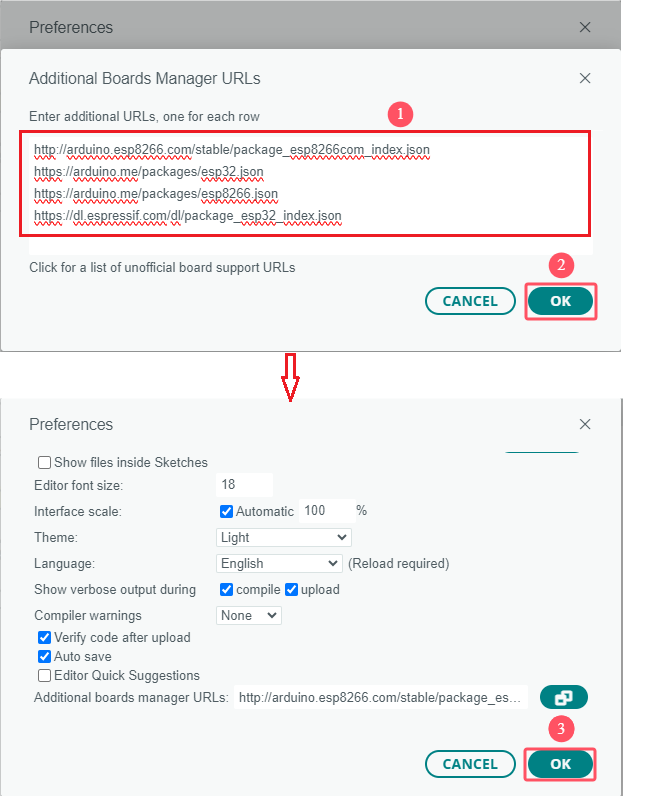
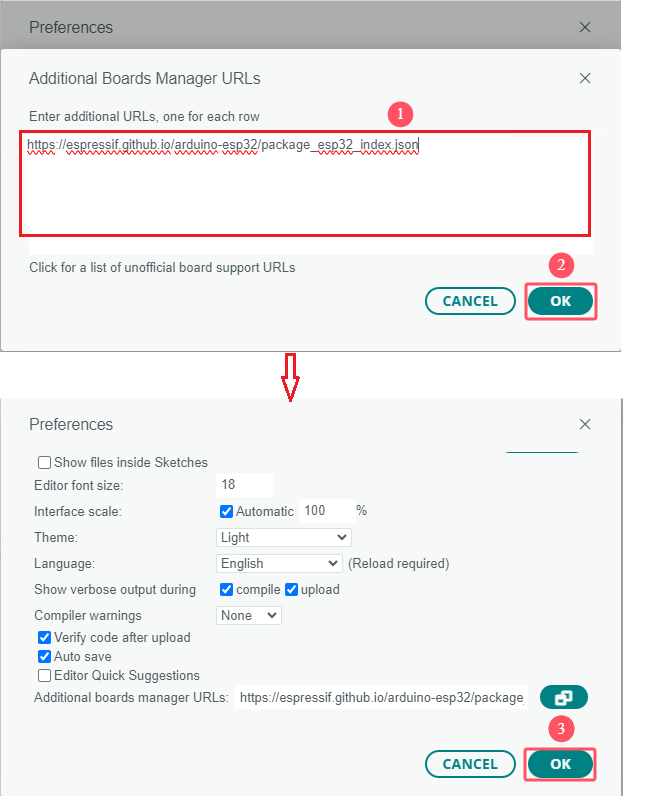
2025-02-26  8:39:07.08

Changed region(s): [[0.0299, 0.1508, 0.6587, 0.3015], [0.3593, 0.8442, 0.7784, 0.9045]]

diff --git a/docs/Arduino_C Tutorial/Arduino_C_Tutorial.md b/docs/Arduino_C Tutorial/Arduino_C_Tutorial.md
@@ -122,19 +122,12 @@ ESP32 board needs to be installed in Arduino IDE before using.
 
 ![Img](./media/img-20241129110938.png)
 
-2\. Copy and paste the below link into Additional boards manager URLs and click **OK**.
-
-```c++
-http://arduino.esp8266.com/stable/package_esp8266com_index.json
-https://arduino.me/packages/esp32.json
-https://arduino.me/packages/esp8266.json
-https://dl.espressif.com/dl/package_esp32_index.json
-```
+2\. Copy and paste the link：https://espressif.github.io/arduino-esp32/package_esp32_index.json into Additional boards manager URLs and click **OK**.
 
 ![Img](./media/img-20241129111458.png)
 
-3\. Select the icon of board manager to search for “**ESP32**” and click version **<span style="color: rgb(255, 76, 65);">3.1.1</span>** to “**Install**”. 
-(**<span style="color: rgb(255, 76, 65);">⚠Note that here we adopt 3.1.1 version of the ESP32. Installation may fail if you choose another versions.</span>**)
+3\. Select the icon of board manager to search for “**ESP32**” and click version **<span style="color: rgb(255, 76, 65);">3.1.3</span>** to “**Install**”. 
+(**<span style="color: rgb(255, 76, 65);">⚠Note that here we adopt 3.1.3 version of the ESP32. Installation may fail if you choose another versions.</span>**)
 
 ![Img](./media/img-20241129112805.png)
 
@@ -1675,17 +1668,14 @@ The IR receiver on the PCB board is controlled by GPIO19 of the ESP32 board.
 ![Img](./media/img-20250225155452.png)
 
 
-<span style="color: rgb(255, 76, 65); background: rgb(255, 251, 0);">⚠Warning:  If you are using an ESP32 development board version **3.1.1** or higher, you may encounter errors during the compilation process. This issue is usually because the newer versions of the board no longer support the `IRremoteESP8266` library. To properly run this example, it is recommended to downgrade your ESP32 board’s firmware version to **2.0.17**. After completing this example and the lesson 14 example, upgrade back to the latest version. </span>
+<span style="color: rgb(255, 76, 65); background: rgb(255, 251, 0);">⚠Warning:  If you are using an ESP32 development board version **3.1.3** or higher, you may encounter errors during the compilation process. This issue is usually because the newer versions of the board no longer support the `IRremoteESP8266` library. To properly run this example, it is recommended to downgrade your ESP32 board’s firmware version to **2.0.17**. After completing this example and the lesson 14 example, upgrade back to the latest version. </span>
 
-Copy and paste the link：**https://espressif.github.io/arduino-esp32/package_esp32_index.json**  in Additional boards manager URLs and click **OK**.
-
-![Img](./media/img-20250225154317.png)
 
 Select the icon of board manager to search for “**ESP32**” and click version **<span style="color: rgb(255, 76, 65);">2.0.17</span>** to “**Install**”. 
 
 ![Img](./media/img-20250225154625.png)
 
-<span style="color: rgb(255, 169, 0);">**⚠ATTENTION**: After completing this example and the lesson 14 example, upgrade back to the latest version.</span>
+<span style="color: rgb(255, 169, 0);">**⚠ATTENTION**: After completing this example and the example from lesson 14 below, upgrade back to the latest version(**3.1.3**).</span>
 
 ```c
 /*
@@ -1759,17 +1749,13 @@ In the above experiment, we have learned about the knowledge of the 8*8 dot matr
 ![Img](./media/img-20250225155452.png)
 
 
-<span style="color: rgb(255, 76, 65); background: rgb(255, 251, 0);">⚠Warning:  If you are using an ESP32 development board version **3.1.1** or higher, you may encounter errors during the compilation process. This issue is usually because the newer versions of the board no longer support the `IRremoteESP8266` library. To properly run this example, it is recommended to downgrade your ESP32 board’s firmware version to **2.0.17**. After completing this example and the lesson 13 example, upgrade back to the latest version. </span>
-
-Copy and paste the link：**https://espressif.github.io/arduino-esp32/package_esp32_index.json** in Additional boards manager URLs and click **OK**.
-
-![Img](./media/img-20250225154317.png)
+<span style="color: rgb(255, 76, 65); background: rgb(255, 251, 0);">⚠Warning:  If you are using an ESP32 development board version **3.1.3** or higher, you may encounter errors during the compilation process. This issue is usually because the newer versions of the board no longer support the `IRremoteESP8266` library. To properly run this example, it is recommended to downgrade your ESP32 board’s firmware version to **2.0.17**. After completing this example and the lesson 13 example, upgrade back to the latest version. </span>
 
 Select the icon of board manager to search for “**ESP32**” and click version **<span style="color: rgb(255, 76, 65);">2.0.17</span>** to “**Install**”. 
 
 ![Img](./media/img-20250225154625.png)
 
-<span style="color: rgb(255, 169, 0);">**⚠ATTENTION**: After completing this example and the lesson 13 example, upgrade back to the latest version.</span>
+<span style="color: rgb(255, 169, 0);">**⚠ATTENTION**: After completing this example and the example from lesson 13 above, upgrade back to the latest version(**3.1.3**).</span>
 
 ```c
 /*
